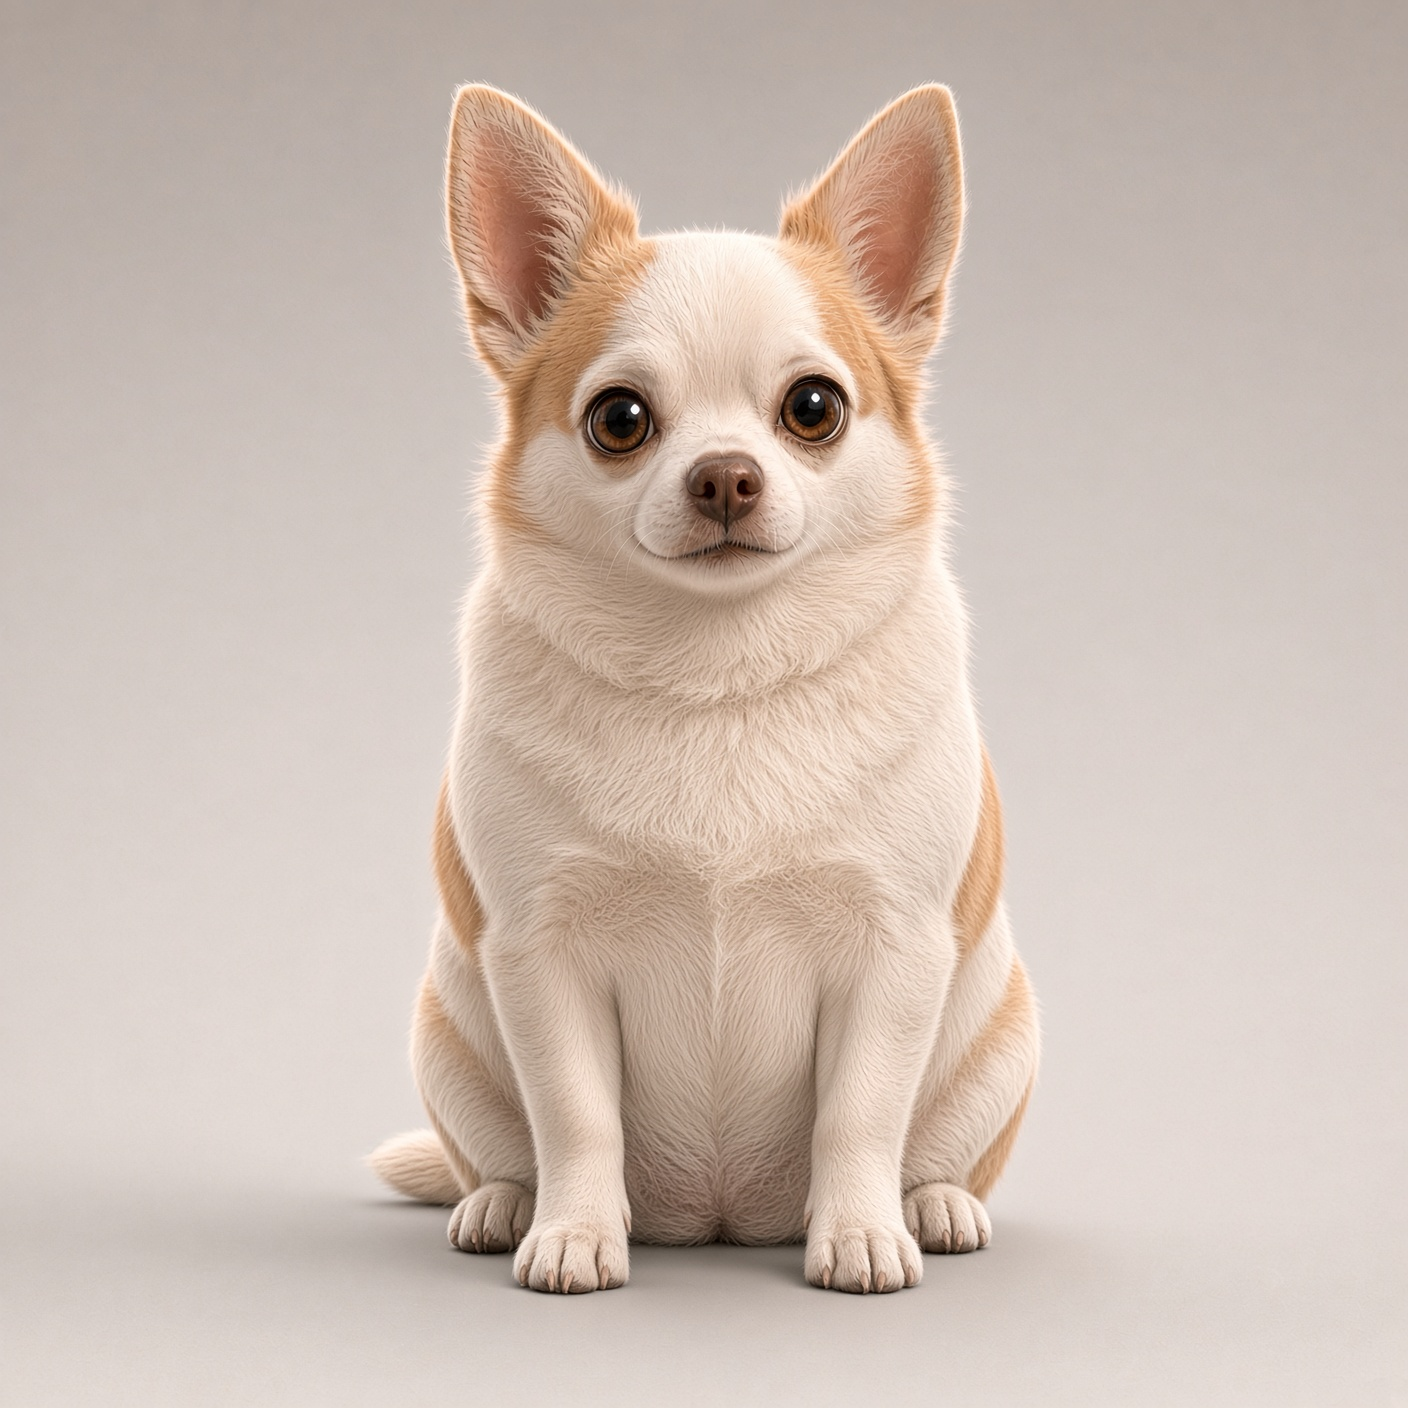
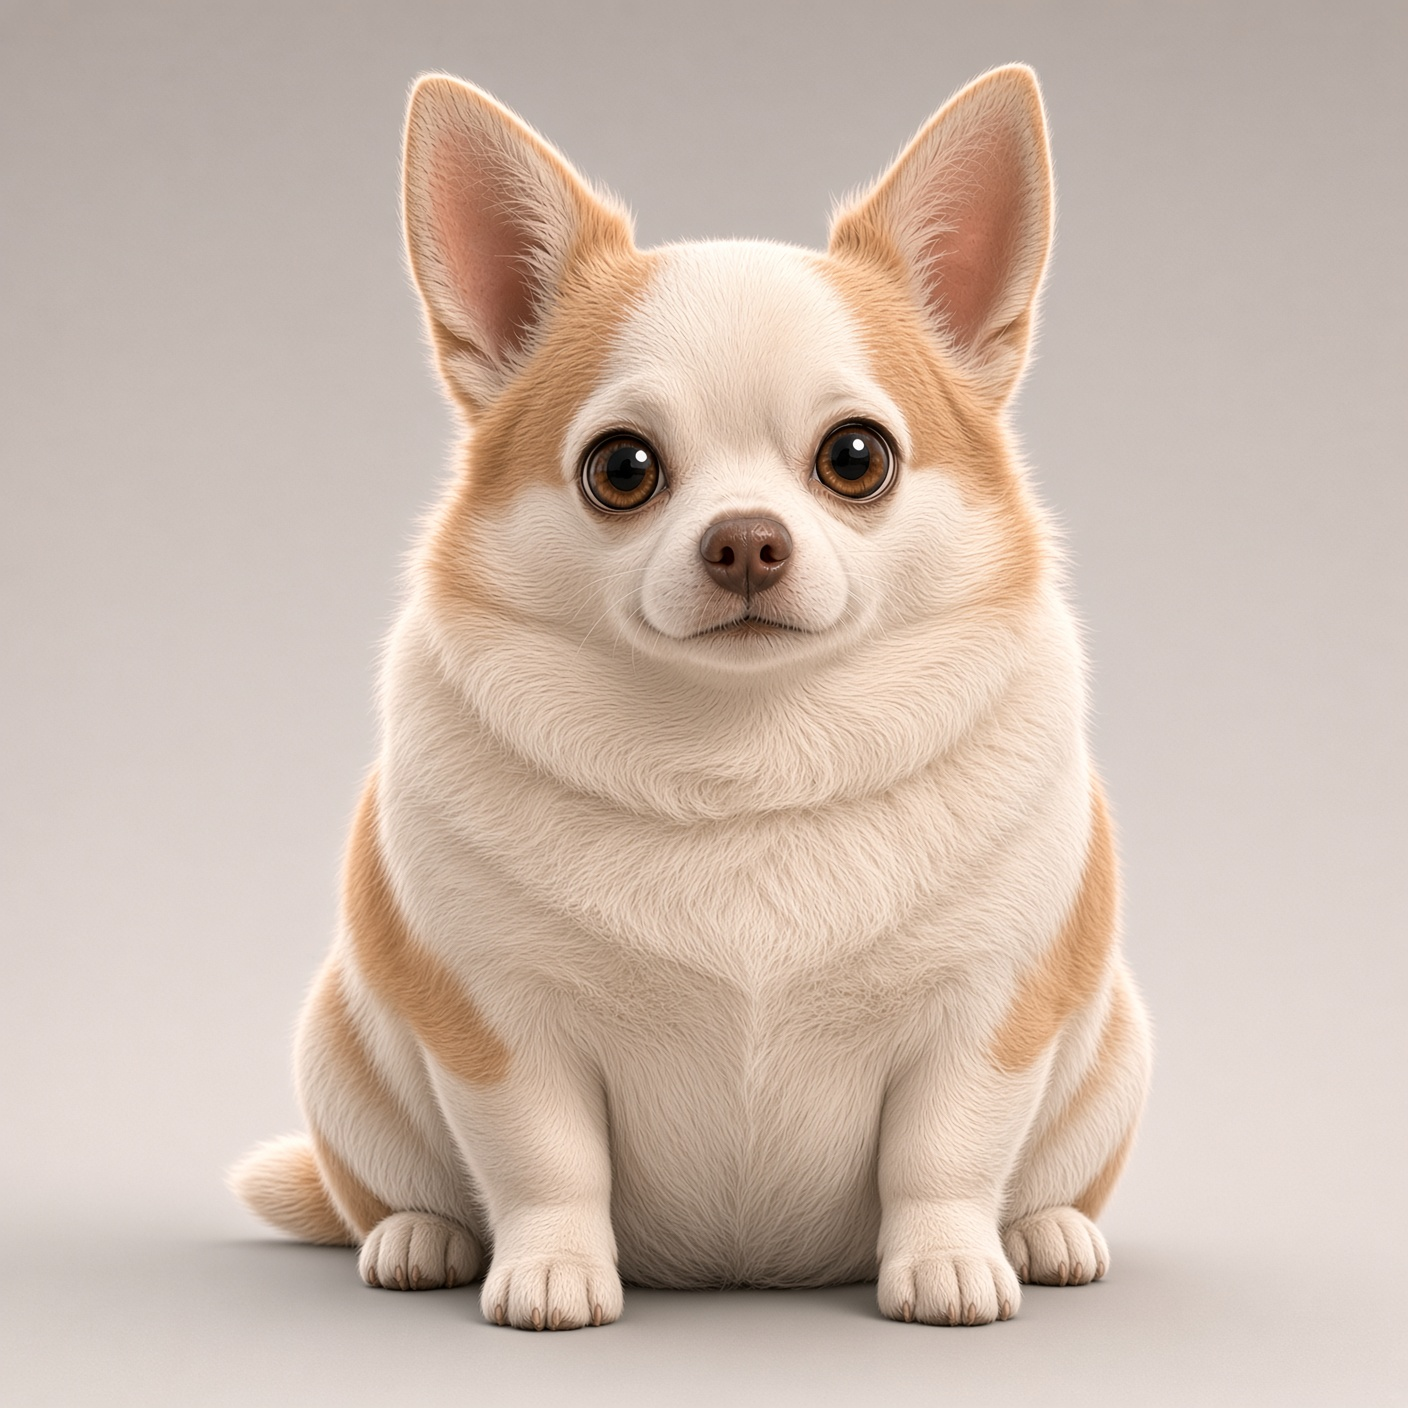
わんカロリーの犬をピクサー風の座り絵にする

Changed region(s): [[0.1562, 0.0312, 0.8438, 0.9688]]

diff --git a/src/components/calorie/today-panel.tsx b/src/components/calorie/today-panel.tsx
@@ -418,7 +418,7 @@ export function TodayPanel({
                 <img
                   src={saburo.src}
                   alt={saburo.label}
-                  className="absolute inset-0 h-full w-full origin-center scale-[1.45] object-cover object-center"
+                  className="absolute inset-0 h-full w-full object-cover object-center"
                 />
                 <p className="absolute inset-x-0 bottom-0 bg-surface/80 py-0.5 text-center text-[11px] leading-tight text-muted">
                   {saburo.label}
